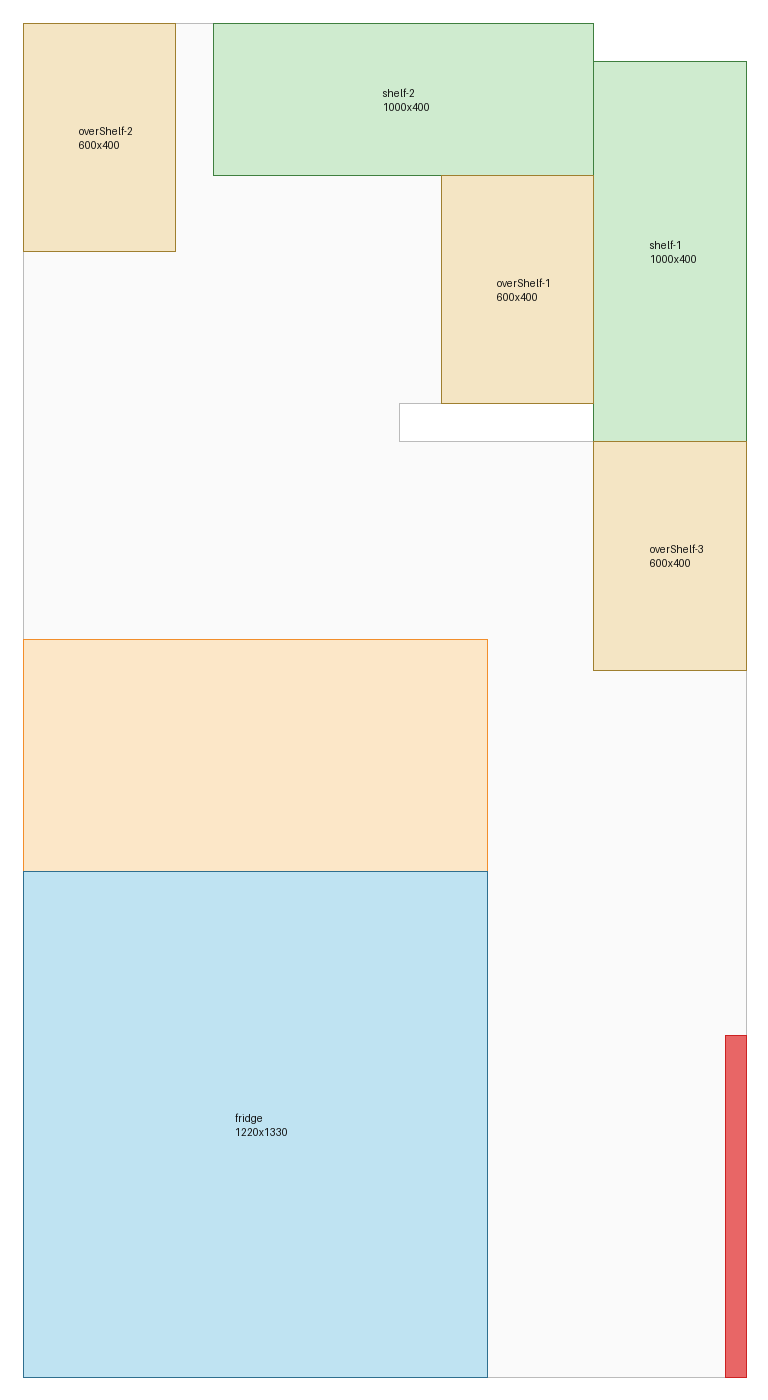
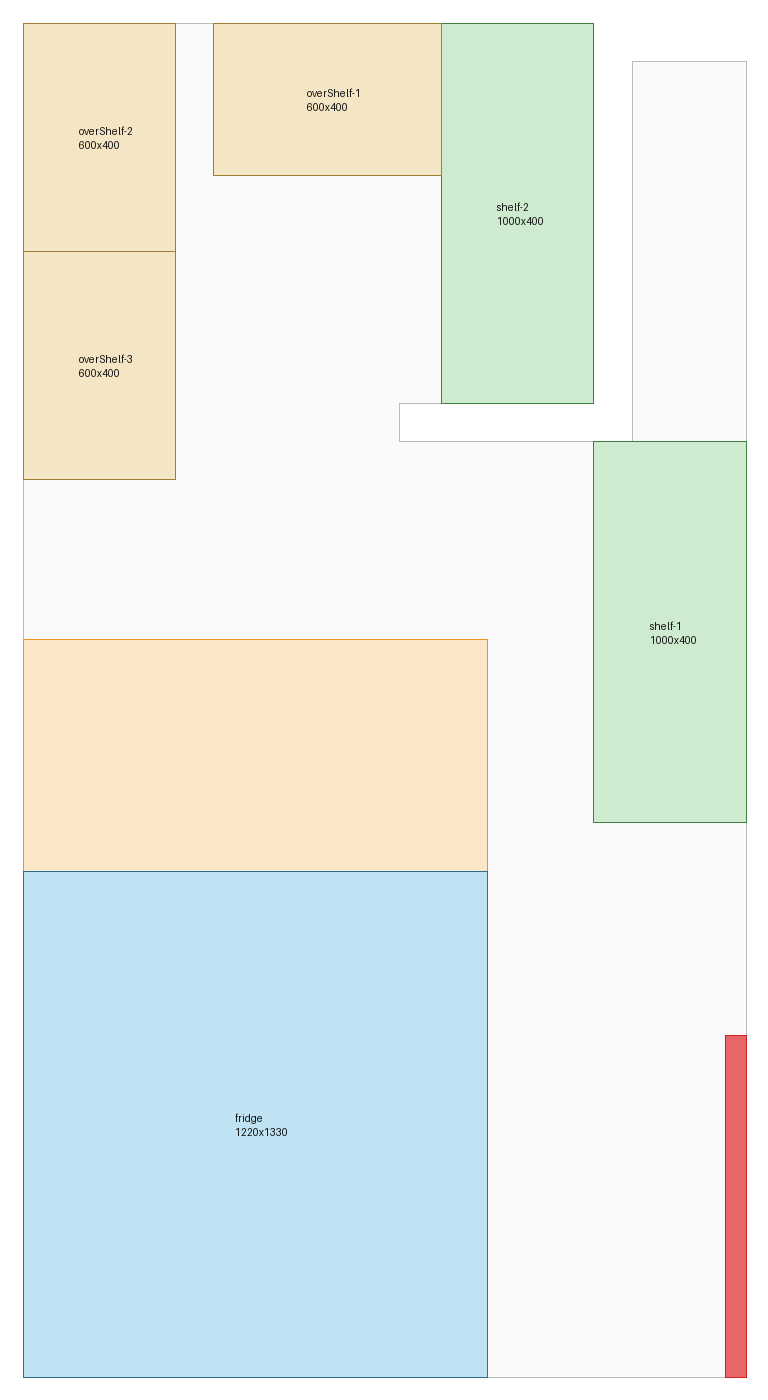
修复矩形containment漏判：多边形边从矩形内部穿过（example4 的 100mm 窄缝被 shelf-1 横跨约 98000mm2 露在房间外）此前被误判为在内；补判据+回归测试+重算 example4 输出

Changed region(s): [[0.25, 0.0, 1.0, 0.6143], [0.0312, 0.1536, 0.25, 0.3686]]

diff --git a/solve/geom.py b/solve/geom.py
@@ -292,6 +292,54 @@ def segments_properly_intersect(a: Point, b: Point, c: Point, d: Point, tol: flo
            ((o3 > tol and o4 < -tol) or (o3 < -tol and o4 > tol))
 
 
+def _seg_enters_rect(a: Point, b: Point, corners: Poly, tol: float = 1e-6) -> bool:
+    """True if segment (a,b) has a positive-length part strictly inside the rectangle.
+
+    Needed because a polygon edge may run through the rectangle's interior without
+    *properly* crossing any of its edges (e.g. a zero-width slit whose wall is
+    collinear with one side): then part of the rectangle lies outside the polygon
+    even though every corner/edge-midpoint test passes.
+    """
+    a0 = corners[0]
+    e1 = sub(corners[1], corners[0])
+    e2 = sub(corners[3], corners[0])
+    L = math.hypot(e1[0], e1[1])
+    W = math.hypot(e2[0], e2[1])
+    if L <= 0.0 or W <= 0.0:
+        return False
+    ux, uy = e1[0] / L, e1[1] / L
+    vx, vy = e2[0] / W, e2[1] / W
+
+    def loc(p):
+        dx, dy = p[0] - a0[0], p[1] - a0[1]
+        return (dx * ux + dy * uy, dx * vx + dy * vy)
+
+    u0, v0 = loc(a)
+    u1, v1 = loc(b)
+    t0, t1 = 0.0, 1.0
+    for d0, d1, lo, hi in ((u0, u1, 0.0, L), (v0, v1, 0.0, W)):
+        dd = d1 - d0
+        if abs(dd) < 1e-12:
+            if d0 < lo - tol or d0 > hi + tol:
+                return False          # parallel to this axis and outside the slab
+            continue
+        ta, tb = (lo - d0) / dd, (hi - d0) / dd
+        if ta > tb:
+            ta, tb = tb, ta
+        t0 = max(t0, ta)
+        t1 = min(t1, tb)
+    if t1 - t0 <= 1e-9:
+        return False                  # no positive-length overlap with the rectangle
+    eps = max(tol, 1e-9)
+    for f in (0.0, 0.25, 0.5, 0.75, 1.0):
+        t = t0 + f * (t1 - t0)
+        um = u0 + t * (u1 - u0)
+        vm = v0 + t * (v1 - v0)
+        if eps < um < L - eps and eps < vm < W - eps:
+            return True               # a point strictly inside -> rectangle is cut
+    return False
+
+
 def rect_inside_polygon(corners: Poly, poly: Sequence[Point], tol: float = ON_BOUNDARY_TOL) -> bool:
     """True if the rectangle lies entirely inside-or-on ``poly`` (tol in mm)."""
     for c in corners:
@@ -304,6 +352,10 @@ def rect_inside_polygon(corners: Poly, poly: Sequence[Point], tol: float = ON_BO
                 return False
         # safety: edge midpoint must also be inside/on
         if not point_in_polygon(((a[0] + b[0]) / 2, (a[1] + b[1]) / 2), poly, tol):
+            return False
+    # a polygon edge must not cut through the rectangle's interior
+    for i in range(n):
+        if _seg_enters_rect(poly[i], poly[(i + 1) % n], corners, max(tol, 1e-9)):
             return False
     return True
 

diff --git a/solve/tests/test_geom.py b/solve/tests/test_geom.py
@@ -56,6 +56,32 @@ class TestGeom(unittest.TestCase):
         poke = [(-1.0, 0.0), (10.0, 0.0), (10.0, 10.0), (-1.0, 10.0)]
         self.assertFalse(geom.rect_inside_polygon(poke, poly, 1e-6))
 
+    def test_rect_inside_polygon_rejects_slit_crossing(self):
+        """Regression: a 100mm slit (like example4's) must reject a rect straddling it.
+
+        Every corner/edge-midpoint of this rectangle lies on or inside the polygon,
+        and no edge properly crosses, so only the "polygon edge cuts the rectangle
+        interior" check can catch it.
+        """
+        poly = [(0.0, 0.0), (200.0, 0.0), (200.0, 100.0),
+                (150.0, 100.0), (150.0, 200.0), (100.0, 200.0),
+                (100.0, 100.0), (0.0, 100.0)]          # 50mm-wide slit from (100,100) to (150,100)
+        # left edge collinear with the slit wall (x=100), straddles the slit
+        straddle = [(100.0, 100.0), (300.0, 100.0), (300.0, 300.0), (100.0, 300.0)]
+        self.assertFalse(geom.rect_inside_polygon(straddle, poly, 1e-6))
+        # fully inside the left lobe is fine
+        inside = [(10.0, 10.0), (90.0, 10.0), (90.0, 90.0), (10.0, 90.0)]
+        self.assertTrue(geom.rect_inside_polygon(inside, poly, 1e-6))
+        # flush against the slit wall but NOT crossing it is fine
+        flush = [(50.0, 10.0), (100.0, 10.0), (100.0, 90.0), (50.0, 90.0)]
+        self.assertTrue(geom.rect_inside_polygon(flush, poly, 1e-6))
+
+    def test_example4_slit_straddling_placement_is_rejected(self):
+        """The exact placement that used to slip through in example4 (shelf-1)."""
+        p = model.load_problem(os.path.join(INPUT, "example4.json"))
+        cs = geom.rect_corners((184573.592, 30142.723), 1000.0, 400.0, 90.0)
+        self.assertFalse(geom.rect_inside_polygon(cs, p.room.poly, 1e-2))
+
     def test_wall_contact(self):
         poly = [(0.0, 0.0), (100.0, 0.0), (100.0, 100.0), (0.0, 100.0)]
         # touches only the bottom wall (length 40)

diff --git a/README.md b/README.md
@@ -22,7 +22,7 @@
 
 - **定点清理 `polygon_cleanup`**：循环执行「去重复顶点 → 去反向尖刺（退化的往复边）→ 合并共线边」直到收敛。`example4` 的输入多边形**末点等于第 2 个点、首末边反向重叠（自交）**，正是靠这一步还原成简单多边形（清理前后面积不变）。
 - **内侧法线 `interior_normal`**：用「偏移 1 mm 的探针点是否在房间内」判定方向，**不假设多边形的顺/逆时针**。`example1`、`example3` 的边界是顺时针，`example2`、`example4` 是逆时针，混合输入也能正确处理（这是参考实现里最常见的翻车点之一）。
-- **矩形判据**：`rect_inside_polygon`（四角在内 + 边不真穿越 + 边中点在内）、`convex_overlap_area`（Sutherland–Hodgman 精确求交叠面积）、`segment_overlap_with_rect`（门洞/开门边的零深度判据）、`wall_contact`（贴墙接触长度）。
+- **矩形判据**：`rect_inside_polygon`（四角在内 + 边不真穿越 + 边中点在内 + **多边形任意一条边都不得从矩形内部穿过**——最后一条专门挡 `example4` 那种「100 mm 窄缝被物体横跨」的情形）、`convex_overlap_area`（Sutherland–Hodgman 精确求交叠面积）、`segment_overlap_with_rect`（门洞/开门边的零深度判据）、`wall_contact`（贴墙接触长度）。
 - **容差**：贴合允许 `1e-6 mm`；交叠面积阈值 `1e-3 mm²`（求解器，精确坐标）；校验器对序列化取整放宽到 `1 mm²`、出界 `0.01 mm`（见 §1.6）。
 
 ### 1.3 朝向集合（H3：与轮廓边平行或垂直）
@@ -60,7 +60,7 @@
 | 编号 | 规则 |
 |---|---|
 | V1 | 轮廓有效性（清理掉的退化顶点、面积>0、简单多边形） |
-| V2 | 全部物体在轮廓内（容差 0.01 mm，吸收输出的取整误差） |
+| V2 | 全部物体在轮廓内（容差 0.01 mm，吸收输出的取整误差；含「矩形不得横跨窄缝」判据） |
 | V3 | 两两不重叠（交叠面积 ≤ 1 mm²，允许贴合） |
 | V4 | 每个角度与某条轮廓边平行/垂直（≤ 0.5°） |
 | V5 | 门未被遮挡（内开 N×N 无物体；外开不压门洞） |
@@ -142,7 +142,7 @@ python -m unittest discover -s solve/tests -t .
 | example1 | 是 | PASS | 8/8 | 8/8 | 8430 mm | 610 mm |
 | example2 | 是 | PASS | 8/8 | 8/8 | 8820 mm | 610 mm |
 | example3 | 是 | PASS | 9/9 | 9/9 | 8950 mm | 610 mm |
-| example4 | 是 | PASS | 6/6 | 6/6 | 8950 mm | 610 mm |
+| example4 | 是 | PASS | 6/6 | 6/6 | 7650 mm | 610 mm |
 
 > `example1` 的旋转角里会出现 15.852°/105.852°（该房间的斜墙方向），这仍然是"与轮廓边平行或垂直"；若改用 `--orientation axis` 限定 0°/90°，该例贴墙数会降到 4/8（斜墙贴不上），其余三例不变。
 
@@ -188,16 +188,18 @@ python -m unittest discover -s solve/tests -t .
 | overShelf-2 | 离地架 | (56098.310, 31383.107) | 90.000° |
 | overShelf-3 | 离地架 | (56898.310, 29953.106) | 90.000° |
 
-### example4（退化输入 + 外开门，6 件）
+### example4（退化输入 + 100 mm 窄缝 + 外开门，6 件）
 
 | 物体 | 类型 | 中心 (x, y) | 旋转角 |
 |---|---|---|---|
 | fridge | 冰箱 | (183483.592, 32437.723) | 0.000° |
-| shelf-1 | 货架 | (184573.592, 30142.723) | 90.000° |
-| shelf-2 | 货架 | (183873.592, 29742.723) | 0.000° |
-| overShelf-1 | 离地架 | (184173.592, 30242.723) | 90.000° |
+| shelf-1 | 货架 | (184573.592, 31142.723) | 90.000° |
+| shelf-2 | 货架 | (184173.592, 30042.723) | 90.000° |
+| overShelf-1 | 离地架 | (183673.592, 29742.723) | 0.000° |
 | overShelf-2 | 离地架 | (183073.592, 29842.723) | 90.000° |
-| overShelf-3 | 离地架 | (184573.592, 30942.723) | 90.000° |
+| overShelf-3 | 离地架 | (183073.592, 30442.723) | 90.000° |
+
+（该房间的输入里带一条 **100 mm × 1000 mm 的窄缝**，且多边形末点重复、含退化尖刺；物体必须整体避开这条缝——这正是「矩形不能跨缝」判据的用武之地，详见 §1.2 与 §1.6。）
 
 ### 四个样例的完整输出（`Output/exampleN.result.json`）
 
@@ -281,11 +283,11 @@ python -m unittest discover -s solve/tests -t .
   "angleConvention": "deg; 0 deg = length along +x, width along +y; counter-clockwise positive",
   "placements": [
     {"name": "fridge", "type": "fridge", "center": [183483.592, 32437.723], "rotation": 0.0, "length": 1220.0, "width": 1330.0},
-    {"name": "shelf-1", "type": "shelf", "center": [184573.592, 30142.723], "rotation": 90.0, "length": 1000.0, "width": 400.0},
-    {"name": "shelf-2", "type": "shelf", "center": [183873.592, 29742.723], "rotation": 0.0, "length": 1000.0, "width": 400.0},
-    {"name": "overShelf-1", "type": "overShelf", "center": [184173.592, 30242.723], "rotation": 90.0, "length": 600.0, "width": 400.0},
+    {"name": "shelf-1", "type": "shelf", "center": [184573.592, 31142.723], "rotation": 90.0, "length": 1000.0, "width": 400.0},
+    {"name": "shelf-2", "type": "shelf", "center": [184173.592, 30042.723], "rotation": 90.0, "length": 1000.0, "width": 400.0},
+    {"name": "overShelf-1", "type": "overShelf", "center": [183673.592, 29742.723], "rotation": 0.0, "length": 600.0, "width": 400.0},
     {"name": "overShelf-2", "type": "overShelf", "center": [183073.592, 29842.723], "rotation": 90.0, "length": 600.0, "width": 400.0},
-    {"name": "overShelf-3", "type": "overShelf", "center": [184573.592, 30942.723], "rotation": 90.0, "length": 600.0, "width": 400.0}
+    {"name": "overShelf-3", "type": "overShelf", "center": [183073.592, 30442.723], "rotation": 90.0, "length": 600.0, "width": 400.0}
   ]
 }
 ```
@@ -306,6 +308,7 @@ python -m unittest discover -s solve/tests -t .
   2. **交叠面积计算的符号错误**：凸多边形裁剪（Sutherland–Hodgman）求交点的公式少了一个负号，导致重叠面积被严重低估、求解器放过真实重叠；修正后重叠被正确检出。
   3. **内法线方向**：`example1`/`example3` 的轮廓是顺时针，若假设逆时针会导致贴墙候选全部失效；改为用「偏移 1 mm 的探针点」判定内侧。
   4. **序列化取整误差**：输出坐标取整到 0.001 mm 后会产生亚毫米级「越界/重叠」，需要在校验器里用合适容差吸收。
+  5. **窄缝被横跨（最后验收时才发现）**：`example4` 的输入里有一条 100 mm × 1000 mm 的窄缝，`rect_inside_polygon` 原先只查「四角 + 边中点 + 边真交叉」，而窄缝的墙恰好与物体的一条边共线、所有检查点都落在墙线上，于是判为「在内」，求解器把 `shelf-1` 摆成了横跨窄缝（约 98000 mm² 露在房间外），校验器 V2 也一起误判通过。补上「多边形任意一条边不得从矩形内部穿过」的判据后解决，并加了针对该窄缝的回归测试。
 - **参考实现调研**：对比 4 个公开仓库对「门 / 冰箱净空」的不同处理，并指出它们各自的实现缺陷（碰撞阈值过松导致真实重叠、冰箱净空带未登记为障碍或是死代码、冰箱开门边取反、内开门只留 N/2 而非 N×N）。
 - **验证与文档**：独立校验器 V1–V8、单元测试（含负样例与确定性回归）、交叉校验（用本方案的校验器去裁判上述 4 个仓库的输出）、布局出图、结果汇总。
 ### 3. 哪些关键逻辑是我自己理解并调整的

diff --git a/Output/summary.md b/Output/summary.md
@@ -5,4 +5,4 @@
 | example1.json | 是 | fridge-610mm | PASS | 8/8 | 8/8 | 8430.0 | 610.0 |
 | example2.json | 是 | fridge-610mm | PASS | 8/8 | 8/8 | 8820.0 | 610.0 |
 | example3.json | 是 | fridge-610mm | PASS | 9/9 | 9/9 | 8950.0 | 610.0 |
-| example4.json | 是 | fridge-610mm | PASS | 6/6 | 6/6 | 8950.0 | 610.0 |
+| example4.json | 是 | fridge-610mm | PASS | 6/6 | 6/6 | 7650.0 | 610.0 |

diff --git a/Output/validation.md b/Output/validation.md
@@ -66,4 +66,4 @@
 | V6 | PASS | fridge front 610mm clear |
 | V7 | PASS | flushing contact is permitted and is not counted as overlap (V3) |
 
-指标: 贴墙 6 件, 贴墙总长 8950.0 mm, 自由面积 3.43 m², 冰箱净空 610.0 mm
+指标: 贴墙 6 件, 贴墙总长 7650.0 mm, 自由面积 3.43 m², 冰箱净空 610.0 mm
